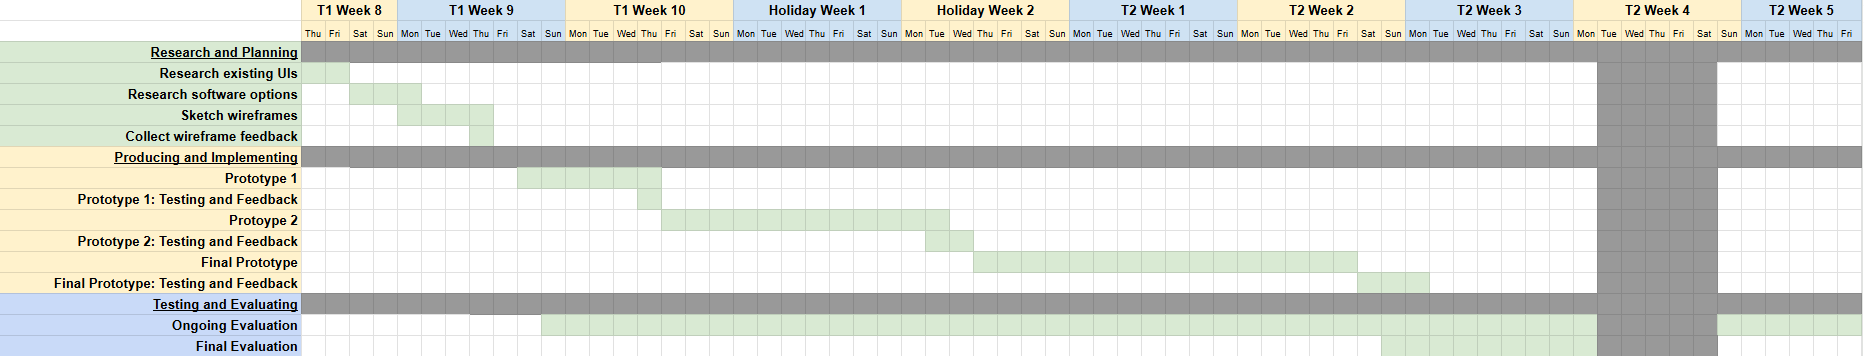
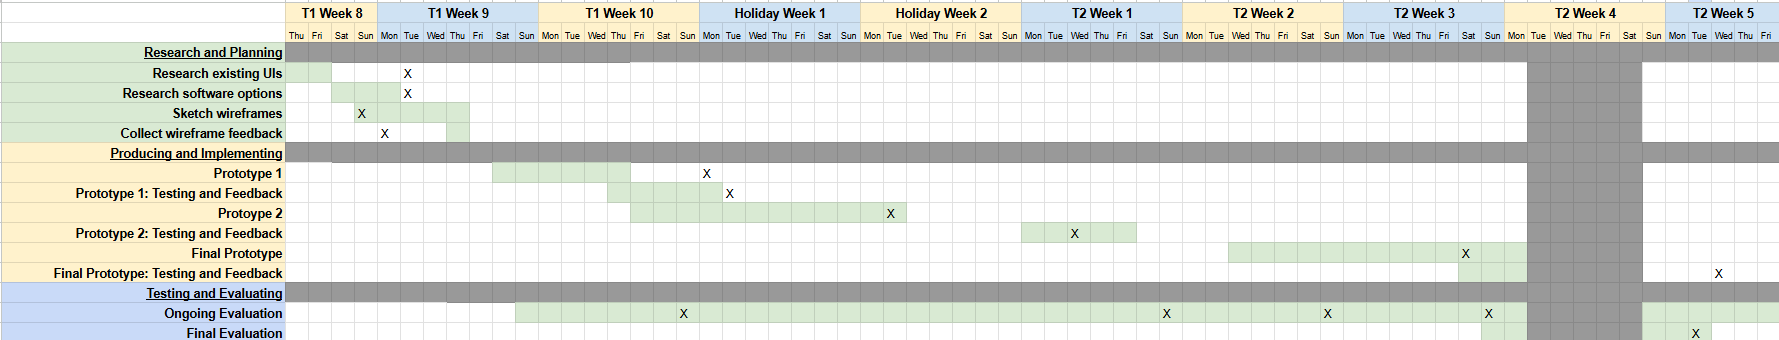
feat: finish final evaluation + gantt chart
finished writing but i dont know if its good. will have to check on thursday. also finished finishing out my gantt chart so its ready for submission. just need my prototype 2 evaluation now

diff --git a/PROJECT_DOCUMENTATION.md b/PROJECT_DOCUMENTATION.md
@@ -147,18 +147,36 @@ Moving on, Vanessa and Yuna have provided valuable insight into how my project d
 Do you have any other feedback? (in terms of performance, accessibility, structure etc.) | no | no |
 
 #### User Testing Evaluation
-The feedback I received from my quesetionnaire was mostly positive, but I also received a lot of valuable insight in improving the UX moving forward with the project. Both responses outlined that the prototype is highly intuitive and user-friendly, with slight areas of improvement in terms of navigation (making a back button, making the logo a button). They stated that the design elements are very interesting and interactive, however it was not as accessible as it could be as it lacked clarity in how to interact with some of the elements such as the Splice Nexus.
+The feedback I received from my questionnaire was mostly positive, but I also received a lot of valuable insight in improving the UX moving forward with the project. Both responses outlined that the prototype is highly intuitive and user-friendly, with slight areas of improvement in terms of navigation (making a back button, making the logo a button). They stated that the design elements are very interesting and interactive, however it was not as accessible as it could be as it lacked clarity in how to interact with some of the elements such as the Splice Nexus.
 The advice I received from questionnaire responses were quite similar, as they both highlighted how they liked the layout but found some weaknesses in the interface's intuitiveness, which emphasises to me that for my prototype 2, I need to focus on bringing more clarity in user navigation and optimising features so the UI is not only interactive, but convenient/easy to use.
 
 ### Prototype 2
 #### User Testing and Feedback
 **Interview Responses: Vanessa**
-| **Vanessa** | **Yuna** |
+| Questions | Response | 
 |-|-| 
-| also i like how u guide people to click the elemtns so its very easy to use and navigate i like how the thingy on the pigs the oragns are like halftones so u know where to press and the layering is also really coolthe fade at the end of each page is really nice idk your graphicsx so good broi like how the top bar is consistent so u can quickly and conveniently switch and i love love the animations it makes it feel aniamted and jumpy and its coolDo you have anything else to add? : *"I like the consistent user warnings like at the very start and also how it's on the end of every single page"* |I like how you can click the organs for more information really cool and also how if you go back to the homescreen it like comes out form the top. i like ho everything is structured really well and veyr engaging. Alo very good drawings and i like thr trigger warning a lot. maybe make it so that if you press the logo you can also come back to the home screen?? very nive that you also put lik a fictional warning thing at the bototm of your screen. i also like how you can get more infromation itno the nimals by clicking them but the transitions can get a little bit dizzy but other than that its really nice. maybe put the click me thing at the top next to the first animal and not the last?? so that they can click as they go down not go down and then do it?? idk. maybe also find a way to get from the "splice nexus" to the 'about us; oage in one go without using the menu like a back button or smth. anywys rlly nice. heh i like it alot. its like on par with the one you can find online. nice. |
+| How intuitive do you find the program? | "very intuitive. it has the basic like website structure with the hamburger menu and stuff" |
+| What features helped the program feel more (or less) intuitive? | "I like the click me icons that guides people to click the elements so it's very easy to use and navigate.I also like how the pig's organs are half tones so you know where to press."|
+|Do you think the application will be accessible to a variety of abilities? | "yeah it has good contrast, lots of elements and little text" |
+|What did you think in terms of the design elements?| "You're graphics soo good bro. I love love the animations it makes it feel animated and jumpy and it's cool and the fade at the end of each page is really nice." | 
+| What features improved your user experience? | "I like the consistent user warnings like at the very start and also how it's on the end of every page. Also I like the font" |
+| Any other comments? | "I like how the top bar is consistent so you can quickly and conveniently switch" |
 
+
+**Interview Responses: Yuna**
+| Questions | Response |
+|-|-|
+| How intuitive do you find the program? | "It's intuitive and I like how structured everything is, it makes it easier to navigate" |
+| What features helped the program feel more (or less) intuitive? | "Maybe find a way to get from the 'splice nexus' and 'about us' page to the main catalogue without using the menu. Like if you press the logo, you can go back to homescreen? It made navigating a little bit annoying." |
+| What did you think in terms of the design elements? | "Very good drawings, very engaging and the transitions are okay" |
+| How do you think I can improve the transitions? | "Maybe tone down the bounce effect. It can get a little dizzy" |
+| Do you think the application would be accessible to a variety of abilities?| "Probably yeah."|
+| What features improved your user experience? | "The fictional warning thing at the bottom of the screen is very nice. I also liked how there were a lot of elements you could click for more information or going to a different page, it felt interactive and nice."|
+| Any other comments? | "I like it a lot. It's like on par with the ones you can find online. nice :)" |
 
 #### User Testing Evaluation
+The feedback I received from Vanessa and Yuna's feedback was (). The interview format allowed me to draw valuable feedback, especially surrounding non-functional aspects such as navigation and
+
 Analyse the key themes that emerged from user feedback and their overall impact on the project.
 
 Evaluate how intuitive and user-friendly the prototype was based on user feedback.
@@ -173,18 +191,19 @@ Evaluate the most critical areas for improvement and how they should be addresse
 
 ### Prototype 3
 #### User Testing and Feedback
+| Questions | Vanessa | Julienne |
+|--|--|--|
+| How cohesive is the design? (in terms of graphics, content, etc.)(1-5) | 5 | 4 |
+| What do you think of the overall website design and what improvements could be made? | "it's very cute. no improvements" | "the font is a bit boring and sometimes small, and the white background is eye shattering for people on high brightness. besides that its really good. The graphics are well thought out, especially the colour scheme."|
+| How intuitive do you find the interface? | 5 | 4 |
+| Has the intuitiveness improved from other prototypes? | Yes | Yes|
+| How immersive is the website in terms of its content (do you find it interesting?)(1-5) | 5 | 5 |
+| Rate the website overall based on its performance, aesthetics, consistency, accessibility etc. | 5 | 4 |
+| Do you have any other feedback/comments? |"I liked it better when you scroll to get to the organ prices, not the arrow" | "my brother said he could do better than u. prove the lil rat wrong!" |
+
 #### User Testing Evaluation
-Analyse the key themes that emerged from user feedback and their overall impact on the project.
+The user feedback I received for my final product was overall pretty consistently positive, with a general enthusiasm for the graphics and design choices, however getting new users brought out some different perspectives and advice on how I can further enhance my product in the future. I found that the user interface was quite intuitive for both my testers, with both stating it had improved from Prototype 2, revealing that I effectively followed previous feedback when working on this prototype. There were no complaints either in terms of the major design elements as I was also previously told that the click me indicators did help meet user needs and allowed for a more guided, user-friendly navigation. However, Vanessa pointed out that she found the new arrow function much more tedious than the previous scrolling function. I also initially didn't want to make this change, but this had to occur due to some bugs I found that happened when scrolling on the pigoon diagram (and Adobe XD didn't have many other solutions). On the other hand, Julienne did point out that the font was quite bland and its size was quite small at times, which indicates that my prototype could've definitely improved in terms of accessibility by next time enlarging some of the text to ensure it is readable for all abilities. I found that compared to the previous prototype when I used an interview format, I was able to draw much more thorough and valuable insight than this time, however I was able to receive more quantifiable feedback using a Google Forms survey, which will be important to consider next time when collecting user feedback. Ultimately, the critical areas of improvement for if this final prototype were to be made into a real-world product is to focus more on accessibility by enlarging text and creating additional features that could also cater to a larger variety of users.
 
-Evaluate how intuitive and user-friendly the prototype was based on user feedback.
-
-Analyse whether the design elements and accessibility features effectively met user needs.
-
-Evaluate the performance of the prototype, including any issues related to speed, responsiveness, or compatibility.
-
-Analyse the similarities and differences between survey responses and interview insights to identify patterns.
-
-Evaluate the most critical areas for improvement and how they should be addressed in the next sprint.
 
 ### Ongoing Evaluation (weekly)
 **5/04/26 T1 Week 10**
@@ -198,29 +217,17 @@ Evaluate the most critical areas for improvement and how they should be addresse
 
 ### Final Evaluation
 1. **Evaluate how effectively your product meets the functional and non-functional requirements, including its stated purpose, use case flows, expected behaviours, usability, performance, reliability, and any relevant security considerations.**
-functional - i got everything except the pigoon shopping catalogue as i was restricted in terms of experience with the program and resources that could get me the effect i wanted
 
-This prototype website will allow users to the MaddAddam series' themes of genetic modification through an interactive shopping catalogue of pigoon(genetically engineered pigs with a combination of pig and human genes) organ transplants. This will allow fans of Margaret Atwood and this series to wholly engage with the dark themes within this series and explore what a world such as the dystopia within MaddAddam would be like to experience and live in.
-stated purpose - the final application addresses the stated purpose, but very minimally. the shopping catalogue is not interactive. i believe that i was not able to immerse users fully in its 'dark' themes, it does seem a bit dystopian but i dont think it captures the essence that margaret atwood was creating in maddaddam
+My product meets the functional requirements I outlined adequately, with some future iterations that could be made. Most planned features from the stated purpose and design brief were successfully implemented. The website includes all major pages and navigation systems, and users are able to move through the application as intended. However, the Pigoon Shopping Catalogue did not fully meet my original design goals because it is not interactive due to my inexperience with Adobe XD. However, the catalogue still functions as a scrollable product display and contributes to the overall experience of the website. Additionally, I wasn't able to immerse users fully in MaddAddam's 'dark' and 'dystopian' themes as I intended as I don't think I captured the essence that Atwood created in the series. I believe if I created a vision board or created some additional sketches early on I would've been able to create a final product closer to Atwood's vision.  
 
-
-use case flows - 
-
-expected behaviours - 
+My use case flows changed radically from my original plans due to some insights that came from my peer feedback. Users found that my intial layout was hard to understand, so I had to restructure the final product a lot to make navigation more intuitive. So although it is quite different to my initial plan, it has been improved according to user needs, which is the utmost priority.
+The product also met most expected behaviours outlined in my test cases. Through both self-testing and peer-testing, which were the methods I planned in my test cases, I confirmed that navigation links and buttons functioned as intended and verified there were no unexpected bugs. However, I was not able to check the layout across multiple devices due to resource restrictions, so my website is not compatible across a variety of screen sizes, decreasing the accessibility of this project.
 
 
+On the other hand, I believe my final product all around addresses the non-functional requirements quite well, although I believe I could have improved its usability. In terms of performance, I implemented all features I outlined in my non-functional requirements, including the transitions, which makes the user experience more fluid and streamlined. I also created a loading screen after the trigger warning, which just overall creates a more immersive experience. Additionally, I believe my design choice of having a red and white colour palette is both suitable to the medical theme and highly contrasting, which promotes usability in the user interface. Although I additionally implemented proper heading structure and a clear layout as outlined in my non-functional requirements, the font sizing is often quite small and illegible for people with vision impairements, which interferes with creating an accessible user experience. 
+Furthermore, the reliability and security considerations I addressed in my project documentation is more difficult to relate to my final product as I did use Adobe XD to create a prototype of a website instead of building one with HTML code. In the reliability section of my non-functional requirements documentation, I stated that I would like to test my product across a variety of screens, however I do not have the resources nor time for this. This indicates that when starting this project, I should have found another more accessible method in ensuring my final product's reliability. Likewise, confirming my content is accurate to the book series the direct book author is quite ambitious and I believe I was probably referring to if this website was officially launched like I did in my security considerations.
+Similarly, it's hard to measure how well my final product compares to its security considerations as it is not an actual website, however its design is made to not store any user data, practising proper data minimisation. It would use HTTPS to ensure information is encrypted and secure from malicious actors. Overall, I fulfilled what I could considering my constraints in my non-functional requirements.
 
-On the other hand, I believe my final product all around addresses the non-functional requirements quite well, although I believe I could have improved its usability. In terms of performance, I implemented all features I outlined in my non-functional requirements, including the transitions, which makes the user experience more fluid and streamlined. I also created a loading screen after the trigger warning, which just overall creates a more immersive experience. 
-
-
-non functional - 
-usability - has consistent design and the colour palette red and white is suitable to the organ theme (looks medical) and is highly contrasting. it also has proper heading structure and a clear layout. the font is legible, however the sizing varies and is quite unreadable for people with vision impairements
-
-performance - is good, i included transitions for every page and it feels veyr fluid, it has a loading screen after the rigger warning whihc is nice i think
-
-reliability -no bro this is too much i dont have tha tmany screens bro i dreamt too big i think i was talking about if i made the website whoops bro
-
-security considerations - its hard to talk about security considerations as adobe xd is a prototype application and therefore this doesnt create an actual website, however this website does not store any user data 
 
 2. **Evaluate how well your final product meets the intentions outlined in your design brief, including suitability for the target audience and purpose.**
 